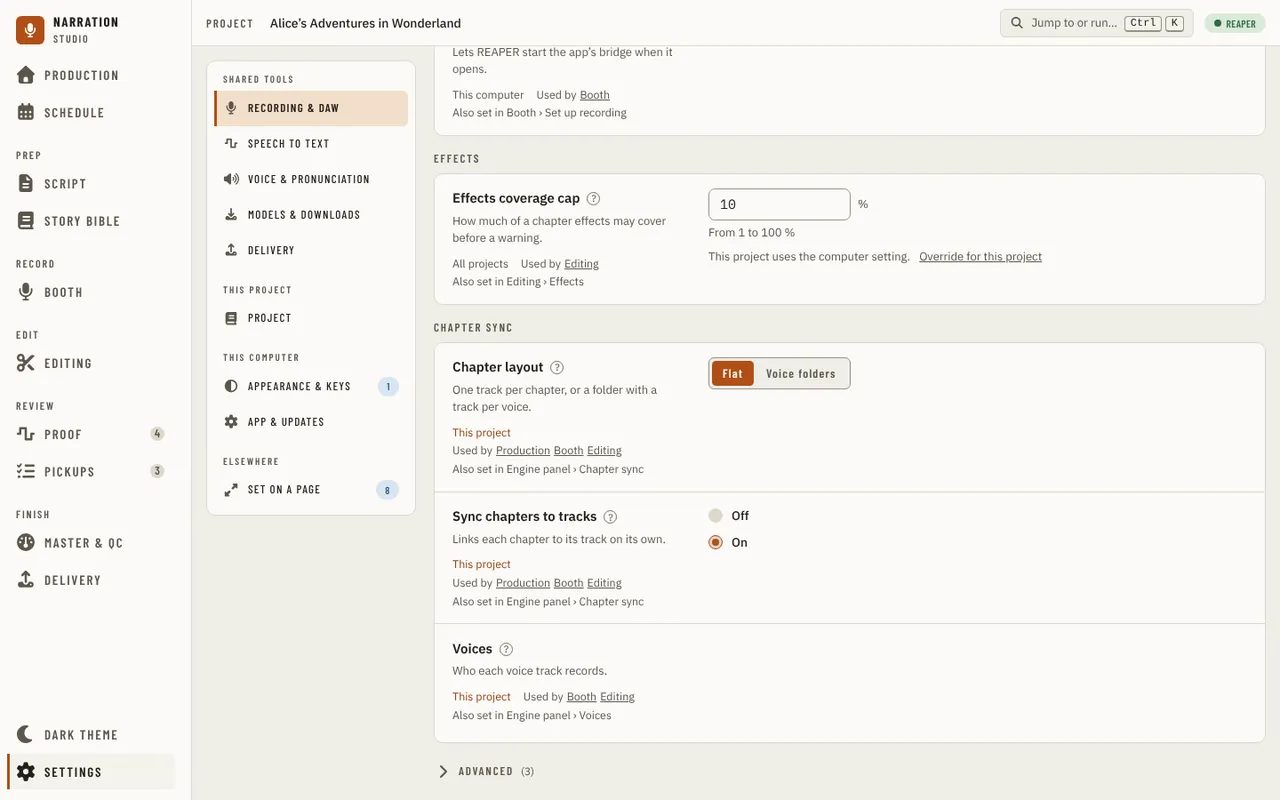
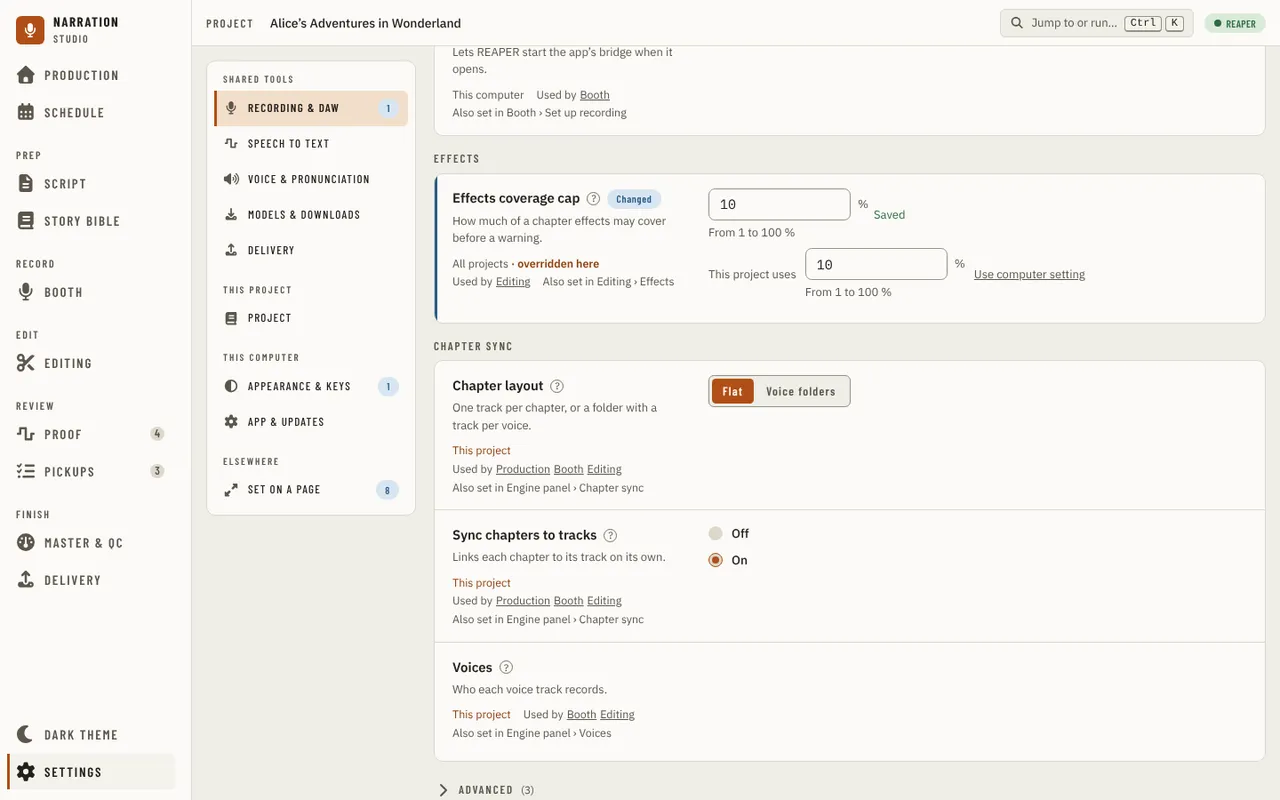
fix(settings): the effects cap state presses Override so it differs from the layout state
The whole-run visual check found settings/effects-cap identical to
settings/recording-chapter-layout at desktop and tablet. The state's own
description already says it shows the project override, so the driver now
presses Override for this project and the guide image shows the box.

Claude-Session: https://claude.ai/code/session_01EBTykexrdZFchRHE5VJWsN

diff --git a/src/studio/ui/tests/visual/drivers/settings.ts b/src/studio/ui/tests/visual/drivers/settings.ts
@@ -440,6 +440,9 @@ export const settingsDrivers: Record<string, Driver> = {
     await openSettings(page, 'Recording & DAW');
     const row = await showSettingsRow(page, 'daw.fxCap');
     await row.getByRole('textbox').waitFor();
+    // The state says "with Override for this project": press it, so the capture shows the project box and is not the same picture as the neighbouring Recording & DAW rows.
+    await row.getByRole('button', { name: /^Override for this project/ }).click();
+    await row.getByText('This project uses', { exact: false }).waitFor();
   },
   'wave-scroll-step': async (page) => {
     await openSettings(page, 'Appearance & keys');

diff --git a/src/studio/ui/tests/visual/catalog/settings.ts b/src/studio/ui/tests/visual/catalog/settings.ts
@@ -415,7 +415,8 @@ export const settingsStates: StateEntry[] = [
   {
     page: 'settings',
     state: 'effects-cap',
-    description: 'Settings, Recording & DAW scrolled to Effects coverage cap under Effects: 10 %, with Override for this project, the row in full view',
+    description:
+      'Settings, Recording & DAW scrolled to Effects coverage cap under Effects: 10 % after Override for this project, with its own project box, the row in full view',
     ...REFLOW,
     ...KEEPS_DESKTOP_SCROLL,
   },

diff --git a/docs/guides/using-the-app/settings.md b/docs/guides/using-the-app/settings.md
@@ -102,7 +102,7 @@ the Narrator, the one character it also voices. With the **Flat** layout the row
 
 **Effects coverage cap** (under **Effects**) is how much of a chapter effects may cover before the [Editing](editing.md) Effects tab warns, a whole percent from 1 to 100 (10 until you change it). Set here it is this computer's value; **Override for this project** gives a project its own. The Effects tab's cap box always sets the project's own value, so typing there creates that override; **Use computer setting** removes it. The **?** says more.
 
-![Settings - Recording & DAW, Effects: the Effects coverage cap row, 10 %, with Override for this project](../../images/ui/settings-effects-cap.webp)
+![Settings - Recording & DAW, Effects: the Effects coverage cap row after Override for this project, with the project's own box](../../images/ui/settings-effects-cap.webp)
 
 **Start tone** (under **Take cues**) is **Off** or **On**. On, the Booth plays a short beep when you press Record, for recording by foot pedal without looking at the screen, and the take starts when the beep ends, a fraction of a second later, so the beep is not on the recording. Turning it on plays it once. It is kept in this window, as Theme and Motion are, and there is no tone to stop a take.
 
